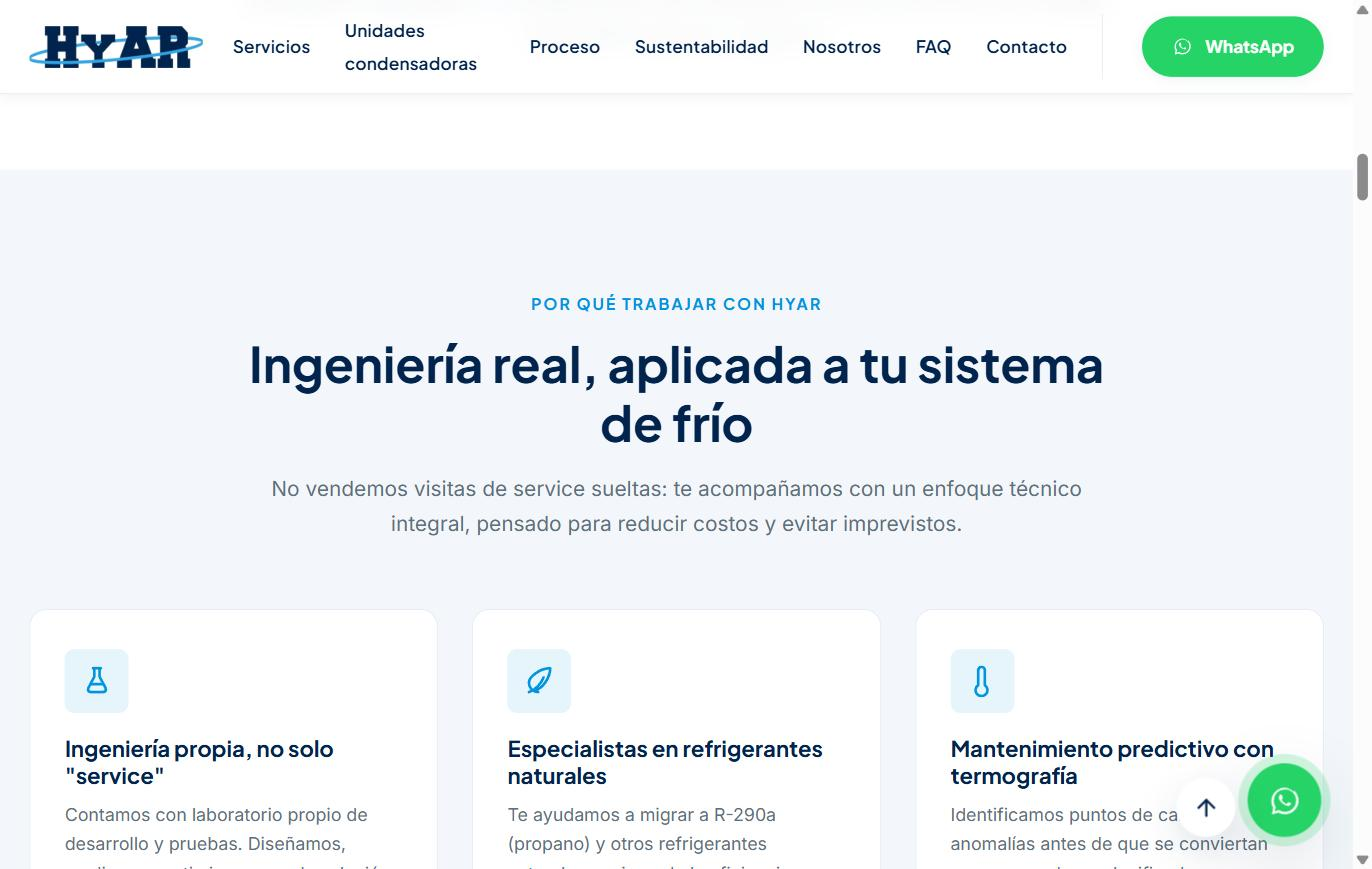
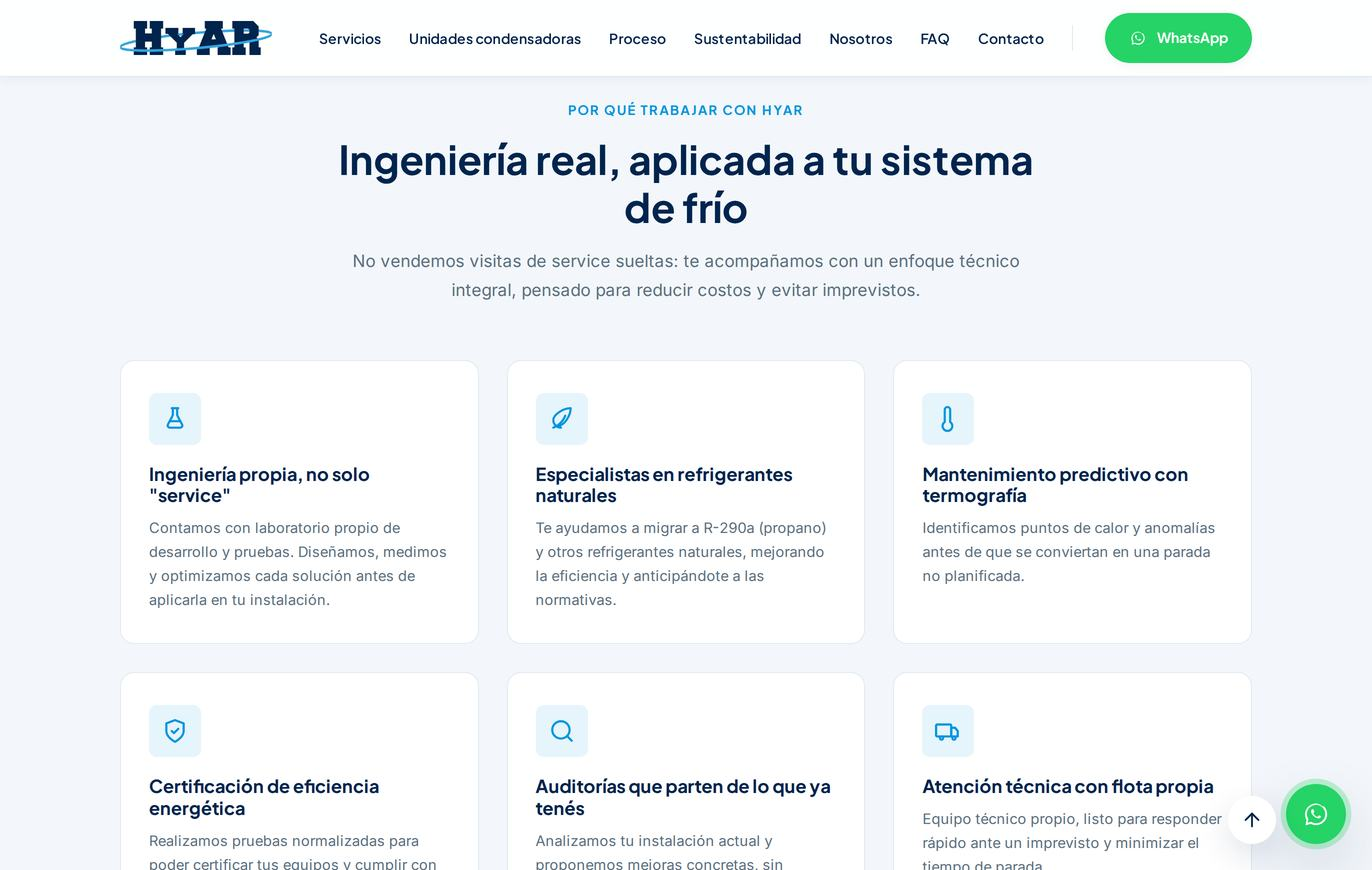
changes

diff --git a/index.html b/index.html
@@ -945,7 +945,7 @@
         </div>
         <div class="portfolio-body">
           <h3>9H Detail Store</h3>
-          <p data-i18n="portfolio.p4Desc">Tienda online para un local de productos de detailing: catálogo organizado por accesorios, máquinas, químicos y marcas, con buscador, favoritos y carrito. Trabajamos la web como extensión del local — mismas marcas, mismo lenguaje visual — para que el cliente que ya los conoce pueda comprar sin ir al negocio.</p>
+          <p data-i18n="portfolio.p4Desc">E-commerce completo para un local de productos de detailing, con un panel de administración a medida: estadísticas del negocio en tiempo real, gestión de todos los pedidos y edición del catálogo, todo desde un mismo lugar. El cliente compra online y el dueño maneja el negocio desde su panel, sin depender de nadie.</p>
           <div class="portfolio-tags">
             <span class="portfolio-tag">E-commerce</span>
             <span class="portfolio-tag" data-i18n="portfolio.catServicios">Servicios</span>
@@ -1264,7 +1264,7 @@
       "portfolio.p3Desc": "Sitio B2B para una empresa de ingeniería aplicada al frío industrial y comercial. Traduje un servicio técnico complejo —cámaras frigoríficas, unidades condensadoras, mantenimiento predictivo, conversión a refrigerantes naturales— a un mensaje que el decisor entiende: que una falla no vuelva a frenar su producción. Toda la navegación empuja a un diagnóstico sin cargo o a WhatsApp.",
       "portfolio.p3Tag2": "Ingeniería",
       "portfolio.p4Alt": "9H Detail Store — tienda online de productos de detailing",
-      "portfolio.p4Desc": "Tienda online para un local de productos de detailing: catálogo organizado por accesorios, máquinas, químicos y marcas, con buscador, favoritos y carrito. Trabajamos la web como extensión del local — mismas marcas, mismo lenguaje visual — para que el cliente que ya los conoce pueda comprar sin ir al negocio.",
+      "portfolio.p4Desc": "E-commerce completo para un local de productos de detailing, con un panel de administración a medida: estadísticas del negocio en tiempo real, gestión de todos los pedidos y edición del catálogo, todo desde un mismo lugar. El cliente compra online y el dueño maneja el negocio desde su panel, sin depender de nadie.",
       "portfolio.p5Alt": "Compañía DAB — nutrición y protección de cultivos",
       "portfolio.p5Desc": "Sitio institucional para una empresa que investiga, desarrolla y comercializa soluciones para el crecimiento de los cultivos. Ordené la línea de productos en un catálogo navegable, puse los datos de contacto y el horario de atención siempre a la vista, y sumé WhatsApp directo — porque en agro la consulta llega cuando el productor está en el campo, no frente a la computadora.",
       "portfolio.p6Alt": "Metales Kaplan — sitio institucional de importación y distribución de metales no ferrosos",
@@ -1288,10 +1288,12 @@
       "portfolio.searchPlaceholder": "Buscar proyecto...",
       "portfolio.noResults": "No encontré proyectos con ese criterio.",
       "portfolio.chipAll": "Todos",
+      "portfolio.catSaas": "SaaS",
       "portfolio.catSoftware": "Software",
       "portfolio.catEcommerce": "E-commerce",
+      "portfolio.catExchange": "Exchange",
+      "portfolio.catInstitucional": "Institucional",
       "portfolio.catIndustria": "Industria",
-      "portfolio.catAlimentos": "Alimentos",
       "portfolio.catServicios": "Servicios",
       "portfolio.catOtros": "Otros",
       "portfolio.genericDesc": "Uno de los proyectos que desarrollé para {name}. ¿Querés conocer más detalles de este caso?",
@@ -1381,7 +1383,7 @@
       "portfolio.p3Desc": "B2B site for an engineering firm specialising in industrial and commercial refrigeration. I translated a complex technical service — cold rooms, condensing units, predictive maintenance, conversion to natural refrigerants — into a message the decision-maker gets: a breakdown should never stop production again. The whole navigation pushes toward a free diagnostic or WhatsApp.",
       "portfolio.p3Tag2": "Engineering",
       "portfolio.p4Alt": "9H Detail Store — online store for detailing products",
-      "portfolio.p4Desc": "Online store for a detailing products shop: catalog organised by accessories, machines, chemicals and brands, with search, favourites and cart. We built the site as an extension of the physical store — same brands, same visual language — so regulars can buy without stopping by.",
+      "portfolio.p4Desc": "Full e-commerce for a detailing products shop, with a custom admin panel: real-time business stats, order management and catalog editing, all in one place. Customers buy online while the owner runs the whole business from the panel, without depending on anyone.",
       "portfolio.p5Alt": "Compañía DAB — crop nutrition and protection",
       "portfolio.p5Desc": "Corporate site for a company that researches, develops and sells solutions for crop growth. I organised the product line into a browsable catalog, kept contact details and opening hours always visible, and added direct WhatsApp — because in agriculture the enquiry comes while the grower is out in the field, not sitting at a computer.",
       "portfolio.p6Alt": "Metales Kaplan — corporate site for a non-ferrous metals importer and distributor",
@@ -1405,10 +1407,12 @@
       "portfolio.searchPlaceholder": "Search a project...",
       "portfolio.noResults": "No projects match that search.",
       "portfolio.chipAll": "All",
+      "portfolio.catSaas": "SaaS",
       "portfolio.catSoftware": "Software",
       "portfolio.catEcommerce": "E-commerce",
+      "portfolio.catExchange": "Exchange",
+      "portfolio.catInstitucional": "Corporate",
       "portfolio.catIndustria": "Industry",
-      "portfolio.catAlimentos": "Food",
       "portfolio.catServicios": "Services",
       "portfolio.catOtros": "Other",
       "portfolio.genericDesc": "One of the projects I built for {name}. Want to know more about this case?",
@@ -1571,10 +1575,14 @@
     ],
     grupoa2: [
       { src: "capturas/grupoa2-full.jpg", frame: false },
+      { src: "porfolio/grupoa2-01.jpg", frame: true, url: "grupoa2ros.com" },
+      { src: "porfolio/grupoa2-02.jpg", frame: true, url: "grupoa2ros.com" },
       { kind: "logo", src: "logo-clientes/logo_ga2_ros_a.png", initials: "GA" }
     ],
     farmacia: [
       { src: "capturas/farmacia-petrirena-full.jpg", frame: false, captionKey: "portfolio.captionStore" },
+      { src: "porfolio/farmacia-01.jpg", frame: true, url: "farmaciapetrirena.com" },
+      { src: "porfolio/farmacia-02.jpg", frame: true, url: "farmaciapetrirena.com" },
       { kind: "logo", src: "logo-clientes/68336973-22a3-4f2e-99e2-78920b1d94d2.png", initials: "FP" }
     ],
     dab: [
@@ -1591,38 +1599,37 @@
      si alguna está mal, avisame y la corrijo.
      ====================================================================== */
   const CATEGORY_KEYS = {
+    saas: "portfolio.catSaas",
     software: "portfolio.catSoftware",
     ecommerce: "portfolio.catEcommerce",
-    industria: "portfolio.catIndustria",
-    alimentos: "portfolio.catAlimentos",
-    servicios: "portfolio.catServicios",
-    otros: "portfolio.catOtros"
+    exchange: "portfolio.catExchange",
+    institucional: "portfolio.catInstitucional"
   };
 
   const ALL_PROJECTS = [
-    { id: "tokn", name: "Tokn", logo: "logo-clientes/Logo-new-color2.png", category: "software" },
+    { id: "tokn", name: "Tokn", logo: "logo-clientes/Logo-new-color2.png", category: "exchange" },
     { id: "retok", name: "Retok", logo: "logo-clientes/cropped-Logo-Retok-1.png", category: "ecommerce", featured: true },
-    { id: "hyar", name: "HyAR", logo: null, category: "industria", featured: true },
-    { id: "kaplan", name: "Metales Kaplan", logo: "logo-clientes/Logo-Kaplan.jpg", category: "industria", featured: true },
-    { id: "dab", name: "Compañía DAB", logo: "logo-clientes/Logo-Compañia-DAB.png", category: "otros", featured: true },
-    { id: "constructora1", name: "Constructora1", logo: "logo-clientes/o5cigpiz9gmqueldpxza.png", category: "industria" },
-    { id: "bustamante", name: "Bustamante", logo: "logo-clientes/logo.png", category: "industria" },
-    { id: "cooking", name: "Cooking", logo: "logo-clientes/cooking-gg.png", category: "alimentos" },
-    { id: "bcp", name: "Build Check Pro", logo: "logo-clientes/build check pro.png", category: "servicios" },
-    { id: "9h", name: "9H Detail Store", logo: "logo-clientes/IMG_0916.png", category: "servicios", featured: true },
-    { id: "wilk", name: "Wilk Maderas", logo: "logo-clientes/LOGO-WILK-RECTANGULO-TRANSPARENTE.png", category: "industria" },
-    { id: "fumisol", name: "Fumisol", logo: "logo-clientes/logo-1.png", category: "servicios" },
-    { id: "office", name: "Office Positivo", logo: "logo-clientes/office_positivo.png", category: "otros" },
-    { id: "grupoa2", name: "GrupoA2 Rosario", logo: "logo-clientes/logo_ga2_ros_a.png", category: "industria", featured: true },
-    { id: "billete", name: "Billete", logo: "logo-clientes/billete.png", category: "software" },
-    { id: "pedimeya", name: "PedimeYa", logo: "logo-clientes/pedimeya.png", category: "software" },
-    { id: "reservameya", name: "ReservameYa", logo: null, category: "software" },
-    { id: "nexplace", name: "Nexplace", logo: "logo-clientes/nexplace.png", category: "software" },
-    { id: "byo", name: "Byo Alimentos", logo: "logo-clientes/Logo-ByoAlimentos.png", category: "alimentos" },
-    { id: "cda", name: "CDA", logo: "logo-clientes/Logo-CDA.png", category: "otros" },
+    { id: "hyar", name: "HyAR", logo: "logo-clientes/Logo-HyAR.png", category: "institucional", featured: true },
+    { id: "kaplan", name: "Metales Kaplan", logo: "logo-clientes/Logo-Kaplan.jpg", category: "institucional", featured: true },
+    { id: "dab", name: "Compañía DAB", logo: "logo-clientes/Logo-Compañia-DAB.png", category: "institucional", featured: true },
+    { id: "constructora1", name: "Constructora1", logo: "logo-clientes/o5cigpiz9gmqueldpxza.png", category: "institucional" },
+    { id: "bustamante", name: "Bustamante", logo: "logo-clientes/logo.png", category: "institucional" },
+    { id: "cooking", name: "Cooking", logo: "logo-clientes/cooking-gg.png", category: "exchange" },
+    { id: "bcp", name: "Build Check Pro", logo: "logo-clientes/build check pro.png", category: "software" },
+    { id: "9h", name: "9H Detail Store", logo: "logo-clientes/IMG_0916.png", category: "ecommerce", featured: true },
+    { id: "wilk", name: "Wilk Maderas", logo: "logo-clientes/LOGO-WILK-RECTANGULO-TRANSPARENTE.png", category: "institucional" },
+    { id: "fumisol", name: "Fumisol", logo: "logo-clientes/logo-1.png", category: "institucional" },
+    { id: "office", name: "Office Positivo", logo: "logo-clientes/office_positivo.png", category: "ecommerce" },
+    { id: "grupoa2", name: "GrupoA2 Rosario", logo: "logo-clientes/logo_ga2_ros_a.png", category: "ecommerce", featured: true },
+    { id: "billete", name: "Billete", logo: "logo-clientes/billete.png", category: "exchange" },
+    { id: "pedimeya", name: "PedimeYa", logo: "logo-clientes/pedimeya.png", category: "saas" },
+    { id: "reservameya", name: "ReservameYa", logo: "logo-clientes/Logo-ReservameYa.png", category: "saas" },
+    { id: "nexplace", name: "Nexplace", logo: "logo-clientes/nexplace.png", category: "exchange" },
+    { id: "byo", name: "Byo Alimentos", logo: "logo-clientes/Logo-ByoAlimentos.png", category: "institucional" },
+    { id: "cda", name: "CDA", logo: "logo-clientes/Logo-CDA.png", category: "institucional" },
     { id: "market247", name: "Market 247", logo: "logo-clientes/Logo-Market247.png", category: "ecommerce" },
-    { id: "espejo", name: "Espejo Mallorquín", logo: "logo-clientes/Logo-Espejo-Mallorquin.png", category: "otros" },
-    { id: "farmacia", name: "Farmacia Petrirena", logo: "logo-clientes/68336973-22a3-4f2e-99e2-78920b1d94d2.png", category: "servicios", featured: true }
+    { id: "espejo", name: "Espejo Mallorquín", logo: "logo-clientes/Logo-Espejo-Mallorquin.png", category: "ecommerce" },
+    { id: "farmacia", name: "Farmacia Petrirena", logo: "logo-clientes/68336973-22a3-4f2e-99e2-78920b1d94d2.png", category: "ecommerce", featured: true }
   ];
 
   (function initPortfolio() {
